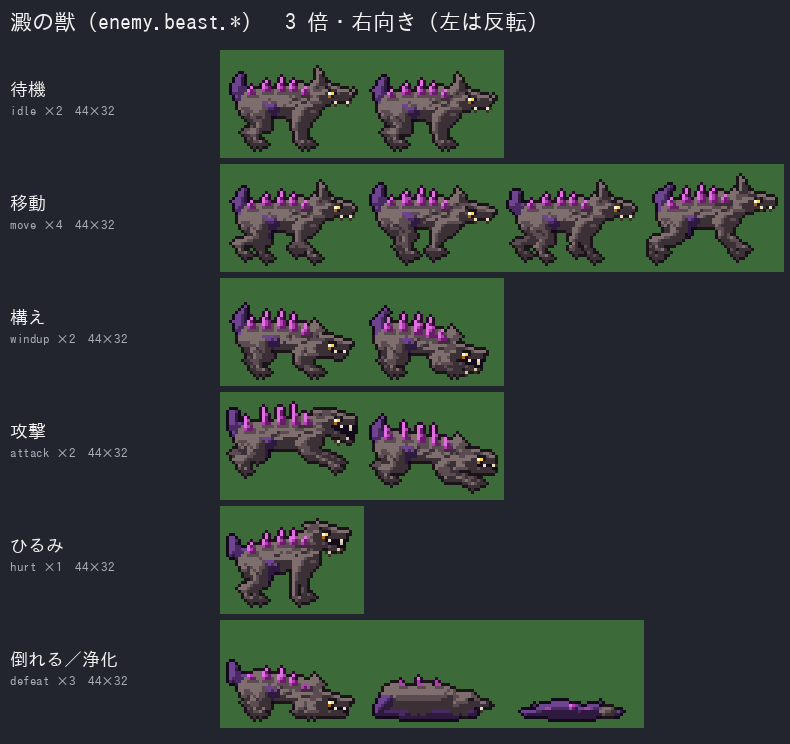
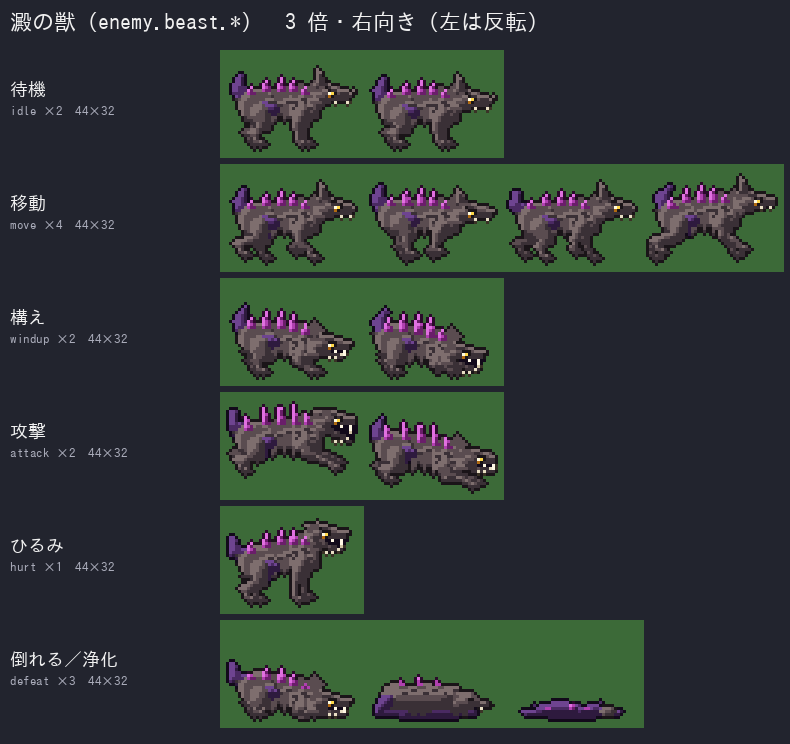
art(beast-finish): hand-finish the beast — mass shading, bold fur locks, tufted outline, bite
- body shaded by mass (lit crescent top-left / shadow crescent bottom-right on haunch, chest
  and neck, flat core between): no light-back / dark-belly banding
- three bold hand-drawn locks flowing back along the back and two on the ruff (light /
  dark rhythm that reads at 1x); the same locks on the fallen body
- fur tufts cut into the silhouette: belly, chest, throat, rump, haunch
- open-mouth frames: long upper fang, short fang, lower teeth; head fur noise removed
- only beast files change (14 frames + the minimal copies, sheets, GIFs); names, sizes,
  frame counts, anchors and frames.json unchanged; PRODUCTION.md section 9

Claude-Session: https://claude.ai/code/session_01VbGyibjwGmxCJ2yW5ydLfW

diff --git a/tools/enemy_release/beast.py b/tools/enemy_release/beast.py
@@ -74,31 +74,68 @@ def draw(p):
     t2 = (t1[0] + 4 * math.cos(a - 0.9), t1[1] - 4 * math.sin(a - 0.9))
     r.chain([t0, t1, t2], [3.0, 2.2, 1.1], "murk", soft=1)
     r.px([(round(t0[0]) - 1, round(t0[1]) + 3)], "murk", 1)  # a drip
-    # body: haunch + barrel + deep chest + neck, one volume
+    # body (beast finish): haunch + barrel + deep chest + neck, with fur tufts cut into the outline.
+    # Shaded BY MASS, not by a light that sweeps the whole tube: each round mass (haunch, chest,
+    # neck) has its own lit crescent on its upper-left and its own shadow crescent on its
+    # lower-right; the barrel between them stays the core tone. No light-back / dark-belly bands.
     neck = (31.5 + X + p.stretch * 0.7 + p.head[0] * 0.5, by - 2 + p.pitch * 1.2 + p.head[1] * 0.5)
-    body = r.mask_of(
-        r.m_ellipse(hip[0] + 0.5, hip[1] - 2.5, 6.2, 5.6),
-        r.m_limb(hip[0] + 2, hip[1] - 3.5, sh[0] - 1, sh[1] - 3.5, 4.3, 5.6),
-        r.m_ellipse(sh[0], sh[1] - 2.5, 5.2, 6.0),
-        r.m_limb(sh[0] + 1, sh[1] - 4, neck[0], neck[1], 4.2, 3.4),
-    )
-    # belly tucked up between chest and haunch
+    H_ = (hip[0] + 0.5, hip[1] - 2.5, 6.2, 5.6)
+    C_ = (sh[0], sh[1] - 2.5, 5.2, 6.0)
+    haunch, chest = r.m_ellipse(*H_), r.m_ellipse(*C_)
+    barrel = r.m_limb(hip[0] + 2, hip[1] - 3.5, sh[0] - 1, sh[1] - 3.5, 4.3, 5.6)
+    neckm = r.m_limb(sh[0] + 1, sh[1] - 4, neck[0], neck[1], 4.2, 3.4)
+    body = r.mask_of(haunch, barrel, chest, neckm)
     belly_cut = r.m_ellipse((hip[0] + sh[0]) / 2, hip[1] + 4.5, 6.5, 3.2)
     body &= ~belly_cut
-    r.add(body, "ashfur", tex=("fur", 172, 1))
+    # fur tufts on the silhouette: hanging points under the belly and chest, a ruff jutting at the
+    # throat, a tuft at the back of the haunch (each a small hand-set triangle)
+    bx0, bx1 = (hip[0] + sh[0]) / 2 - 5, (hip[0] + sh[0]) / 2 + 5
+    belly_y = hip[1] + 1.4 + (p.pitch * 0.4)
+    tufts = []
+    for i, tx in enumerate((bx0, bx0 + 3.5, bx0 + 7, bx1)):
+        ty = belly_y + (sh[1] - hip[1]) * ((tx - hip[0]) / max(sh[0] - hip[0], 1)) * 0.4
+        tufts.append([(tx - 1.8, ty - 1.5), (tx + 1.6, ty - 1.5), (tx - 0.8, ty + 2.6 + (i % 2))])
+    cx_, cy_ = C_[0], C_[1]
+    tufts.append([(cx_ - 2.2, cy_ + 4.5), (cx_ + 1.8, cy_ + 4.5), (cx_ - 1.4, cy_ + 8.4)])  # chest
+    tufts.append([(cx_ + 3, cy_ + 2.5), (cx_ + 5.5, cy_ - 0.5), (cx_ + 4.4, cy_ + 5.2)])  # throat
+    hx0, hy0 = H_[0], H_[1]
+    tufts.append([(hx0 - 4, hy0 - 3.5), (hx0 - 7.4, hy0 - 2.4), (hx0 - 5, hy0 + 0.5)])  # rump
+    tufts.append([(hx0 - 2, hy0 + 3), (hx0 - 5.6, hy0 + 4.6), (hx0 - 2.4, hy0 + 5.6)])  # haunch
+    for t_ in tufts:
+        body |= r.m_poly(t_)
+
+    def crescent(e, d):
+        cx0, cy0, rx0, ry0 = e
+        return r.m_ellipse(cx0, cy0, rx0, ry0) & ~r.m_ellipse(cx0 + d, cy0 + d, rx0, ry0)
+
+    lit = (crescent(H_, 1.3) | crescent(C_, 1.3)) & body
+    nl = neckm & ~r.m_limb(sh[0] + 1.6, sh[1] - 3.0, neck[0] + 1.0, neck[1] + 1.0, 4.2, 3.4)
+    lit |= nl & body
+    dark = (crescent(H_, -1.3) | crescent(C_, -1.3)) & body
+    # the underside: the lowest row of the belly and of each tuft
+    below = r.mask_of(body)
+    below[:-1, :] = body[:-1, :] & ~body[1:, :]
+    dark |= below
+    dark &= ~lit
+    r.add(body & ~lit & ~dark, "ashfur", tone=2)
+    r.add(dark, "ashfur", tone=1)
+    r.add(lit, "ashfur", tone=3)
     # mane ruff on the neck and shoulders (paler, tufted)
     rx, ry = sh[0] + 2, sh[1] - 6
-    r.add(r.m_poly([(rx - 7, ry), (rx - 5, ry - 2), (rx - 3, ry - 4), (rx - 1, ry - 3), (rx + 2, ry - 5), (rx + 5, ry - 1), (rx + 3, ry + 1),
-                    (rx + 2, ry + 3), (rx, ry + 1), (rx - 2, ry + 3), (rx - 4, ry + 1)]), "ashfur", lit=1, soft=1)
-    # fur locks, hand-drawn (v1.0 finish 2): four big locks flowing back along the back under the
-    # crystals, and two on the ruff -- a lit stroke over a dark underside, read at 1x
+    ruff = r.m_poly([(rx - 7, ry), (rx - 5, ry - 2), (rx - 3, ry - 4), (rx - 1, ry - 3), (rx + 2, ry - 5), (rx + 5, ry - 1), (rx + 3, ry + 1),
+                     (rx + 2, ry + 3), (rx, ry + 1), (rx - 2, ry + 3), (rx - 4, ry + 1)])
+    r.add(ruff, "ashfur", tone=2)
+    # fur locks, hand-drawn (beast finish): three bold locks flowing back along the back, each a
+    # 2-px lit band over a dark 1-px underside, spaced by the core tone -- a clear light / dark
+    # rhythm at 1x; two locks on the ruff
     leg_ = {"3": ("ashfur", 3), "1": ("ashfur", 1), "2": ("ashfur", 2)}
-    for i, ox in enumerate((1, 6, 11, 16)):
-        lx = round(hip[0] + ox - 1 + p.stretch * (ox / 18))
-        ly = round(by - 2 + p.pitch * (ox / 16))
-        r.stamp(lx, ly, ["...333", ".333.1", "31.11."] if i % 2 else ["..333.", "3333.1", "1.11.."], leg_)
-    r.stamp(round(rx) - 5, round(ry) + 1, ["..33.", "3311.", "1...."], leg_)
-    r.stamp(round(rx) - 1, round(ry) - 2, [".33", "31.", "1.."], leg_)
+    LOCK = ["...333", ".33311", "311...", "1....."]
+    for i, ox in enumerate((2, 8, 14)):
+        lx = round(hip[0] + ox - 2 + p.stretch * (ox / 18))
+        ly = round(by - 3 + p.pitch * (ox / 16))
+        r.stamp(lx, ly, LOCK, leg_)
+    r.stamp(round(rx) - 6, round(ry), ["..33..", "33311.", "11...."], leg_)
+    r.stamp(round(rx) - 2, round(ry) + 3, [".33", "311", "1.."], leg_)
     # murk melting on the flank: a patch on the haunch with drips
     fx, fy = hip[0] + 3, hip[1] - 1
     r.ellipse(fx, fy, 5.0, 2.6, "murk", soft=1)
@@ -118,7 +155,7 @@ def draw(p):
         mouth = r.m_poly([(hx_ + 0.5, hy + 1.4), (hx_ + 9, hy + 1.2), (hx_ + 7.6, hy + 1.6 + jaw * 1.5)])
         r.add(mouth, "murk", tone=0)
         head &= ~r.m_poly([(hx_ + 0.5, hy + 1.4), (hx_ + 10, hy + 1.2), (hx_ + 10, hy + 4), (hx_ + 0.5, hy + 4)])
-    r.add(head, "ashfur", soft=2, tex=("fur", 180, 6))
+    r.add(head, "ashfur", soft=2)
     # brow ridge and stop (breaks the box of the head): a dark crease from the eye down the muzzle
     r.shade(r.m_line(hx_ + 0.5, hy - 2.6, hx_ + 3, hy - 2.2), lambda t: max(1, t - 1))
     r.shade(r.m_line(hx_ + 4, hy + 0.6, hx_ + 8, hy + 0.4), lambda t: max(1, t - 1))
@@ -130,12 +167,16 @@ def draw(p):
     r.add(r.m_poly([(hx_ - 2.6, hy - 2.6), (et[0] + 0.7, et[1] + 2.6), (hx_ - 0.4, hy - 3.2)]), "ashfur", tone=1)
     r.px([(round(hx_ + 9), round(hy - 0.6))], "ashfur", 0)  # nose
     r.px([(round(hx_ + 9), round(hy - 1.6))], "ashfur", 3)  # a glint on the nose bridge
-    # fangs (bone): the attacking part, brighter than the body
+    # fangs (bone), hand-set: a long upper fang near the nose and a short one behind; when the jaw
+    # opens a row of lower teeth shows against the dark mouth (the bite reads at 1x)
     fy_ = round(hy + 1.6)
-    r.px([(round(hx_ + 7), fy_), (round(hx_ + 3.5), fy_)], "bone", 3)
-    if jaw >= 2:
+    if jaw:
+        r.px([(round(hx_ + 7), fy_), (round(hx_ + 7), fy_ + 1), (round(hx_ + 4), fy_)], "bone", 4)
+        r.px([(round(hx_ + 7), fy_ + 2)] if jaw >= 2 else [], "bone", 2)
         jy = round(hy + 1.0 + jaw * 1.5)
-        r.px([(round(hx_ + 7), fy_ + 1), (round(hx_ + 6), jy), (round(hx_ + 3), jy + 1)], "bone", 2)
+        r.px([(round(hx_ + 6), jy), (round(hx_ + 4), jy + 1), (round(hx_ + 2), jy + 1)], "bone", 3)
+    else:
+        r.px([(round(hx_ + 7), fy_), (round(hx_ + 3.5), fy_)], "bone", 3)
     # eye: hand-placed yellow eye with a dark lid
     ex, ey = round(hx_ + 1.5), round(hy - 1.6)
     # hand-drawn: a heavy dark brow slanting down to the snout over a bright 2x2 eye with a dark rim
@@ -148,8 +189,6 @@ def draw(p):
         h = h + p.spike
         lean = 1.2  # shards lean back
         r.poly([(cx - 1.8, base + 1.5), (cx - lean, base - h), (cx + 1.6, base + 1.5)], "glow", soft=1)
-    # fur strands on the back and haunch (a darker groove and a lit ridge)
-    r.shade(r.m_line(hip[0] - 2, hip[1] - 1, hip[0] + 2, hip[1] + 2), lambda t: max(1, t - 1))
     return r
 
 
@@ -163,6 +202,9 @@ def lying(r, p):
         r.limb(x0, gy - 5, x1, gy - 1.5, 1.8, 1.3, "ashfur", dark=1 if i % 2 == 0 else 0)
     body = r.mask_of(r.m_ellipse(20, gy - 6, 12, 4.6), r.m_ellipse(10, gy - 6.5, 5, 4.4))
     r.add(body, "ashfur")
+    # fur locks on the fallen body too (beast finish), the same hand-drawn lock as standing
+    for lx in (11, 18, 25):
+        r.stamp(lx, gy - 10, ["...333", ".33311", "311..."], {"3": ("ashfur", 3), "1": ("ashfur", 1)})
     # head lying flat, snout forward, jaw slack
     hx_, hy = 33, gy - 5
     r.add(r.mask_of(r.m_ellipse(hx_, hy, 4.2, 3.4), r.m_poly([(hx_ + 1, hy - 2), (hx_ + 8, hy + 0.5), (hx_ + 7.5, hy + 2), (hx_ + 1, hy + 2.2)])), "ashfur")

diff --git a/docs/art-release/enemy/PRODUCTION.md b/docs/art-release/enemy/PRODUCTION.md
@@ -248,3 +248,17 @@
 
 番兵の点が少し増えたのは、2×2 のびょうの 4 番・0 番が周りと違う色だから（わざと）。凍て角の点の多くは角の光の線と、たてがみのぎざぎざの先。
 
+## 9. 澱の獣の仕上げ（ブランチ `art/beast-finish`、integ/v1-rc-final c4b8808 から、2026-11-10）
+
+いちばん多く出る敵なので、主人公との差が残っていた獣だけを仕上げました（ほかの敵・ヌシ・弾のファイルはバイト単位で同じ）。名前・大きさ 44×32・14 コマ・足元・`frames.json` は変えていません。向きは右だけ（左はゲームが反転）なので、14 コマ全部を直しました。
+比べた画像：作業用フォルダ `scratchpad/team/v1enemy/beast_finish.png`（主人公と並べた 1 倍を草・苔・砂岩の 3 つの地面で、4 倍で 14 コマ全部）。
+
+| 指摘 | 直したこと |
+|---|---|
+| 背が明るく腹が暗い横じま | 胴を「1 本の筒に光を当てる」塗りから、**かたまりごとの塗り**に変えた：腰・胸・首のそれぞれの左上に明るい三日月（3 番、幅 1〜2）、右下に影の三日月（1 番）、その間の胴は 2 番の平らな面。いちばん下の 1 行だけ 1 番。横に続く帯は無くなった |
+| 毛の房が 1 倍で見えない | 房を少なく大きく：背のとげの下に**後ろへ流れる房 3 つ**（明るい 2 段の筋と暗い 1 ドットの下側、間は 2 番）、たてがみに房 2 つ。たてがみの面は 2 番にして房の光が見えるように。倒れたコマの体にも同じ房 3 つ |
+| 輪郭に毛が見えない | 輪郭に**毛のとがり**を切り込んだ：腹の下に垂れる 4 つ、胸の下 1 つ、のどのたてがみ 1 つ、腰の後ろ 1 つ、もものうしろ 1 つ（どれも 0 番の輪郭付き） |
+| 顔 | 目（暗い縁と眉の 2×2 の明るい目）と鼻すじの光の線はそのまま。**口を開けるコマ**（構え・飛びかかり・ひるみ・倒れる最初）で、上の長いきば（4 番、2〜3 ドット）と短いきば、下あごの歯 3 本を暗い口の中に置いた。頭の細かい毛の模様はやめて、顔の形をすっきりさせた |
+
+ルール（テストで確認）：アルファ 0/255、ランプの色だけ、溜めの赤・ひるみの青なし、外の縁は 0 番、上の端の行に点なし、最小構成の `enemy.beast.0/1` は `idle.0`/`move.0` とバイト単位で同じ。構えの形の違いは 50%／59%（前と同じくらい）。
+
